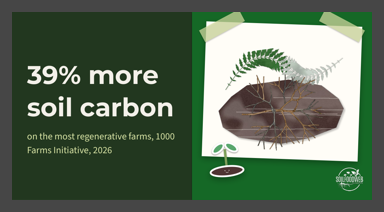
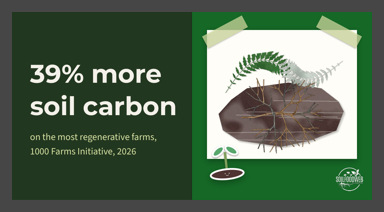
1000 Farms LinkedIn image (Fri 2 Oct): straight card, clean two-line source, caption file; never fall back to the soil cross-section cutout
Claude-Session: https://claude.ai/code/session_014HGzAbxBh54nuyJHG7tse8

diff --git a/templates/posts/october/build_oct_01_10.py b/templates/posts/october/build_oct_01_10.py
@@ -279,10 +279,11 @@ STUDY_LINE = "Lundgren et al. 2026, Environ. Res.: Food Syst."
 FIELD = CUT + "field-cross-section-1.png"
 
 
-def field(s, x, y, w, h):
-    """Field cross-section collage; until it is generated, a stand-in from existing cut-paper pieces:
-    ferns above for the cover crop, the fungal-hyphae cutout below for fungal threads and roots."""
-    if os.path.exists(os.path.join(ROOT, FIELD)):
+def field(s, x, y, w, h, generated=False):
+    """Field collage from existing cut-paper pieces: ferns above for the cover crop, the fungal-hyphae cutout below
+    for fungal threads and roots. The generated field-cross-section-1.png is the banned soil cross-section style
+    (brown layers, grass fringe), so it is only used when asked for explicitly."""
+    if generated and os.path.exists(os.path.join(ROOT, FIELD)):
         return fitpiece(s, FIELD, x, y, w, h)
     iw, ih = Image.open(trimmed("assets/collage/cut-brown-brush.png")).size       # torn-paper soil layer
     soil = s.shapes.add_picture(trimmed("assets/collage/cut-brown-brush.png"), 0, 0, Emu(1), Emu(1))
@@ -386,14 +387,15 @@ def farms():
 def farms_li():
     import scrapbook as sb
     d = Deck(1200, 627, name="02-10-2026-fri-li-1000-farms-study")
-    s = d.slide(DEEP, "LinkedIn image. " + STUDY_SRC + " Right half: the slide 1 field collage on a taped paper card, on Food Web Green.",
-                counter=False)
+    s = d.slide(DEEP, "LinkedIn image. " + STUDY_SRC + " Right half: the slide 1 field collage on a taped paper card (not tilted), "
+                      "on Food Web Green.", counter=False)
     rect(s, 600, 0, 600, 627, GREEN)
-    sb.note(s, 640, 40, 520, 450, sb.PAPER, 2)
-    field(s, 670, 70, 460, 390)
-    sb.seedling(s, 690, 560, 110, deg=-6); sb.beetle(s, 1080, 470, 70, 25)
-    text(s, 50, 150, 520, 2 * lh(64, 1.05) + 10, "39% more soil carbon", 64, CREAM, HEAD, True, spacing=1.05)
-    text(s, 50, 150 + 2 * lh(64, 1.05) + 20, 500, 90, "on the most regenerative farms, 1000 Farms Initiative, 2026", 24, GLOW, BODY, spacing=1.2)
+    sb.note(s, 650, 60, 500, 430, sb.PAPER, 0)
+    field(s, 670, 80, 460, 390)
+    sb.seedling(s, 690, 570, 110, deg=-6)
+    hh = 2 * lh(64, 1.05); sh = 2 * lh(24, 1.25); top = (627 - (hh + 24 + sh)) / 2
+    text(s, 60, top, 520, hh + 10, "39% more\nsoil carbon", 64, CREAM, HEAD, True, spacing=1.05)
+    text(s, 60, top + hh + 24, 520, sh + 10, "on the most regenerative farms,\n1000 Farms Initiative, 2026", 24, GLOW, BODY, spacing=1.25)
     logo_br(s, True, 90, 1200, 627, 30)
     save(d, "02-10-2026-fri-li-1000-farms-study.pptx")
 

diff --git a/templates/posts/october/02-10-2026-fri-li-1000-farms-study-caption.md b/templates/posts/october/02-10-2026-fri-li-1000-farms-study-caption.md
@@ -1,0 +1,22 @@
+# Friday 2 October 2026 · LinkedIn · New study: regenerative farms store 39% more soil carbon
+
+Status: needs review by Allison. This text was AI-generated by Linnea. Feel free to change everything.
+
+Image: 02-10-2026-fri-li-1000-farms-study.pptx (1200 x 627)
+CTA: Read the paper
+Link: https://iopscience.iop.org/article/10.1088/2976-601X/ae8f4e
+
+Sources:
+- Lundgren et al., Environmental Research: Food Systems, 2026: https://doi.org/10.1088/2976-601X/ae8f4e
+- Ecdysis Foundation press release, 17 September 2026: https://www.globenewswire.com/news-release/2026/09/17/3363925/0/en/regenerative-farming-outpaces-tech-based-carbon-capture-solutions-in-first-large-scale-systemic-study.html
+
+## Caption
+
+A landmark paper from the 1000 Farms Initiative is out, and it measures regenerative agriculture the way farmers practice it: as a whole system.
+Ecdysis Foundation researchers placed working farms across North America on a scale from most conventional to most regenerative. The most regenerative farms held 39% more total carbon in their soil and 77% more total fungi. Soil microbes, insects, plants and birds were all more abundant, and that biodiversity tracked closely with how much carbon each field stored.
+Regenerative yields matched national averages, and net profit per acre was similar to conventional farms.
+The finding we'd point every consultant to: farms using just one regenerative practice looked the same as conventional farms. The outcomes came from the full system, living soil included.
+Congratulations to Dr. Jonathan Lundgren and the Ecdysis team.
+Read the paper: https://doi.org/10.1088/2976-601X/ae8f4e
+
+#RegenerativeAgriculture #SoilHealth #SoilCarbon #SoilFoodWeb
